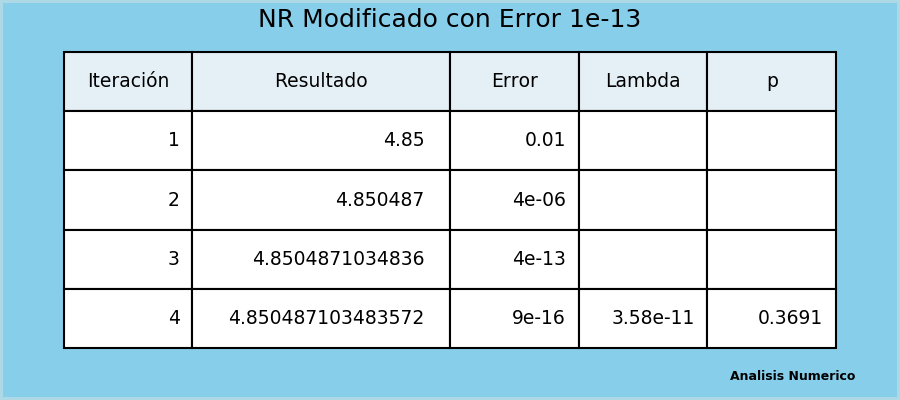
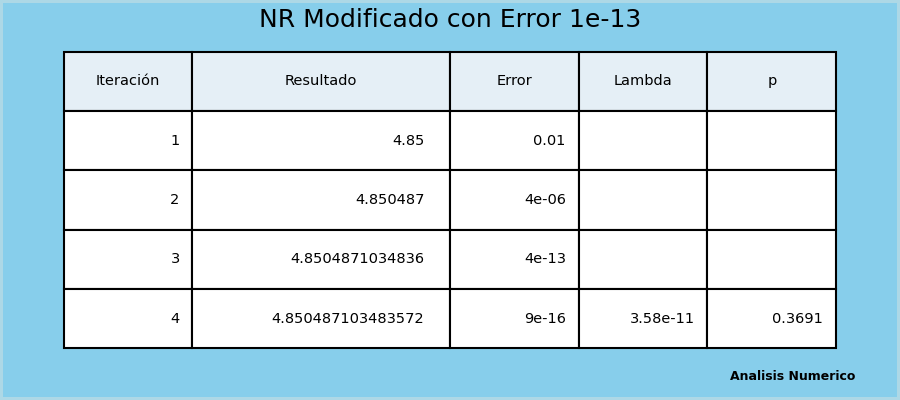
Se imprime

diff --git a/GeneradorTablas.py b/GeneradorTablas.py
@@ -56,61 +56,44 @@ def GenerarTabla(data, iteraciones, title_text, file_name):
 
     data = data_aux
     iteraciones = 12
+    
   footer_text = 'Analisis Numerico'
   fig_background_color = 'skyblue'
   fig_border = 'lightblue'
 
-  # Pop the headers from the data array
   column_headers = data.pop(0)
-  #row_headers = [x.pop(0) for x in data]
-  # Table data needs to be non-numeric text. Format the data
-  # while I'm at it.
   cell_text = []
+  
   for row in data:
       cell_text.append([f'{x}' for x in row])
-      #print(x)
-  # Get some lists of color specs for row and column headers
-  #rcolors = plt.cm.BuPu(np.full(len(row_headers), 0.1))
+      
   ccolors = plt.cm.BuPu(np.full(len(column_headers), 0.1))
-  # Create the figure. Setting a small pad on tight_layout
-  # seems to better regulate white space. Sometimes experimenting
-  # with an explicit figsize here can produce better outcome.
+  
   plt.figure(linewidth = 2,
              edgecolor = fig_border,
              facecolor = fig_background_color,
              tight_layout = {'pad':1},
              figsize = (6, iteraciones*(4/6))
             )
-  # Add a table at the bottom of the axes
+  
   the_table = plt.table(cellText = cell_text,
-                        #rowLabels = row_headers,
-                        #rowColours = rcolors,
                         rowLoc = 'center',
                         colColours = ccolors,
                         colLoc = 'center',
                         colLabels = column_headers,
                         colWidths = [0.15,0.3,0.15,0.15,0.15],
                         loc = 'center')
-  # Scaling is the only influence we have over top and bottom cell padding.
-  # Make the rows taller (i.e., make cell y scale larger).
+  
   the_table.scale(1, 2)
-  # Hide axes
   ax = plt.gca()
   ax.get_xaxis().set_visible(False)
   ax.get_yaxis().set_visible(False)
-  # Hide axes border
   plt.box(on = None)
-  # Add title
   plt.suptitle(title_text)
-  # Add footer
   plt.figtext(0.95, 0.05, footer_text, horizontalalignment = 'right', size = 6, weight = 'heavy')
-  # Force the figure to update, so backends center objects correctly within the figure.
-  # Without plt.draw() here, the title will center on the axes and not the figure.
   plt.draw()
-  # Create image. plt.savefig ignores figure edge and face colors, so map them.
   fig = plt.gcf()
   plt.savefig('imagenes/'+file_name + '.png',
-              #bbox='tight',
               edgecolor = fig.get_edgecolor(),
               facecolor = fig.get_facecolor(),
               dpi = 150
@@ -123,18 +106,18 @@ def GeneraeConvGrafico(data, iteraciones, title_text, file_name):
     y1=[]
     y2=[]
     i=1
-    iteraciones
+    
     if(iteraciones>3):
         while i<=3:
             data.pop(0)
             i+=1
     
     else: return
+    
     for k in data:
         x.append(k[0])
         y1.append(k[3])
         y2.append(k[4])
-        print(x,y1,y2)
         
     fig, axs = plt.subplots(1, 2, figsize=(12, 4), sharey=False)
     
@@ -152,7 +135,6 @@ def GeneraeConvGrafico(data, iteraciones, title_text, file_name):
     fig.suptitle(title_text)
     
     plt.savefig('imagenes/'+file_name + '.png',
-              #bbox='tight',
               edgecolor = fig.get_edgecolor(),
               facecolor = fig.get_facecolor(),
               dpi = 150

diff --git a/Ejercicio3.py b/Ejercicio3.py
@@ -9,7 +9,7 @@ Radio = 4.25
 lim_inf = 4
 lim_sup = 6
 
-max_error = 1 * 10**(-13)
+max_error = 1 * 10**(-5)
 
 ERROR_BISECCION = 0.02
 
@@ -84,9 +84,10 @@ semilla_2 = semilla + cota_semilla
 #%%Generación de gráficos
 print("Generándose los gráficos...espere porfavor\n")
 header = ["Iteración", "Resultado", "Error", "Lambda", "p"]
-"""
+
 matriz_biseccion.insert(0, header)
 tb.GenerarTabla(matriz_biseccion, iteraciones_biseccion, "Bisección con Error "+ str(max_error), "Bisección_graph_"+ str(max_error))
+matriz_biseccion.pop(0)
 tb.GeneraeConvGrafico(matriz_biseccion, iteraciones_biseccion, "Bisección convergencia", "Bisección_graph_convergenia"+ str(max_error))
 
 matriz_secante.insert(0, header)
@@ -100,7 +101,7 @@ tb.GeneraeConvGrafico(matriz_PF, iteraciones_PF, "PuntoFijo convergencia","Punto
 matriz_NR.insert(0, header)
 tb.GenerarTabla(matriz_NR, iteraciones_NR, "NR con Error " + str(max_error), "NR_graph_"+ str(max_error))
 tb.GeneraeConvGrafico(matriz_NR, iteraciones_NR, "NR convergencia", "NR_graph_convergenia"+ str(max_error))
-"""
+
 matriz_NRM.insert(0,header)
 tb.GenerarTabla(matriz_NRM, iteraciones_NRM, "NR Modificado con Error " + str(max_error), "NrMod_graph"+ str(max_error))
 tb.GeneraeConvGrafico(matriz_NRM, iteraciones_NRM, "NR Modificado convergencia", "NRMod_graph_convergenia"+ str(max_error))

diff --git a/Ejercicio3_f.py b/Ejercicio3_f.py
@@ -26,10 +26,6 @@ def V(x):  return np.pi * x** 2 *(3* Radio - x) / 3
 
 def f1(x):  return V(x) - ( V(2*Radio) * porcentaje )
 
-def f_prima(x):  return x * np.pi * (2 * Radio - x)
-
-def f_segunda(x): return 2 * np.pi * (Radio - x)
-
 print(sci.optimize.brentq(f1, lim_inf, lim_sup, full_output = True))
 
 # Derivada
